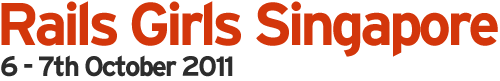
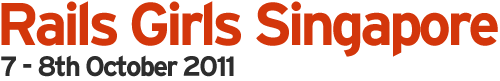
singapore

Changed region(s): [[0.0, 0.6914, 0.48, 0.963]]

diff --git a/singapore.html b/singapore.html
@@ -40,7 +40,7 @@
     <div id="container" class="container_12 page clearfix">
       <div class="grid_12 omega alpha">
         <div id="promo" class="singapore">
-        <h1>Rails Girls Singapore 6-7th October 2011</h1>
+        <h1>Rails Girls Singapore 7-8th October 2011</h1>
         <p>Rails Girls goes Singapore: join the two-day crash-course  
           to the exciting world of building web applications with Ruby on Rails, with an Asian twist. 
         </p>
@@ -78,7 +78,7 @@
       
       <hr />
       <div class="grid_6 alpha">
-        <h2>Friday 6th October</h2>
+        <h2>Friday 7th October</h2>
         <table id="schedule">
           <tbody>
             <tr>
@@ -93,7 +93,7 @@
         
         <hr />          
         
-        <h2>Saturday 7th October</h2>
+        <h2>Saturday 8th October</h2>
         
         <table id="schedule">
           <tbody>
@@ -160,7 +160,7 @@
         <p> Follow Jessica at <a href="http://twitter.com/jessicaspacekat">@jessicaspacekat</a> and <a href="http://pixelpopdev.com">pixelpopdev.com</a></p>
         -->
        <h3>Organised with StartupLah</h3>
-       <img src="./images/startuplah.png" alt="StartupLah">
+       <a href="http://www.startuplah.sg/"><img src="./images/startuplah.png" alt="StartupLah"></a>
        <p>Rails Girls Singapore is organized together with <a href="http://www.twitter.com/jasonong">Jason Ong</a> & StartupLah
      </p>
        <a href="http://www.startuplah.sg/">Learn more about StartupLah</a>
